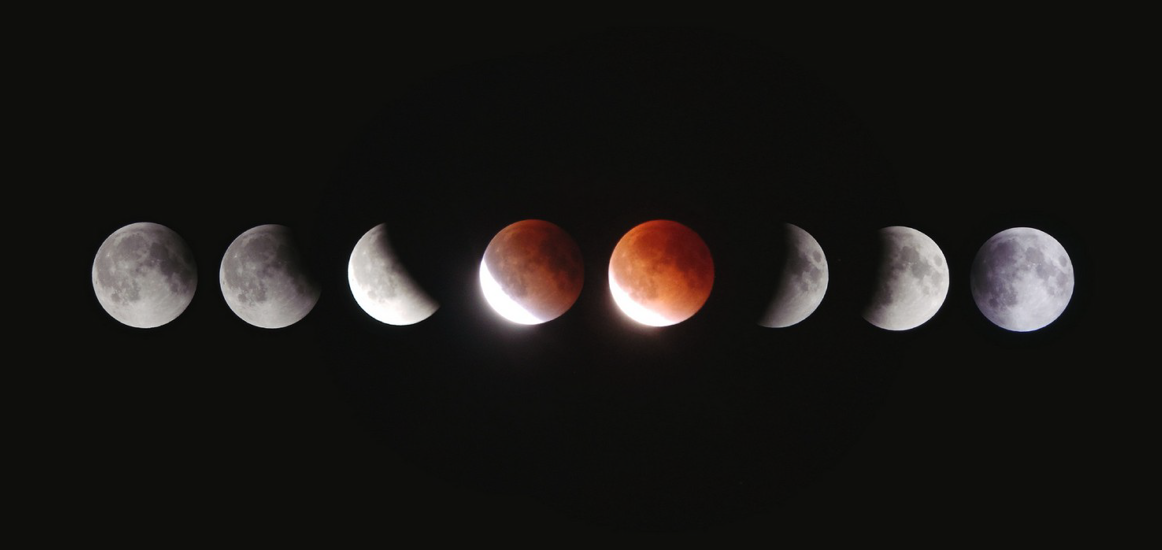
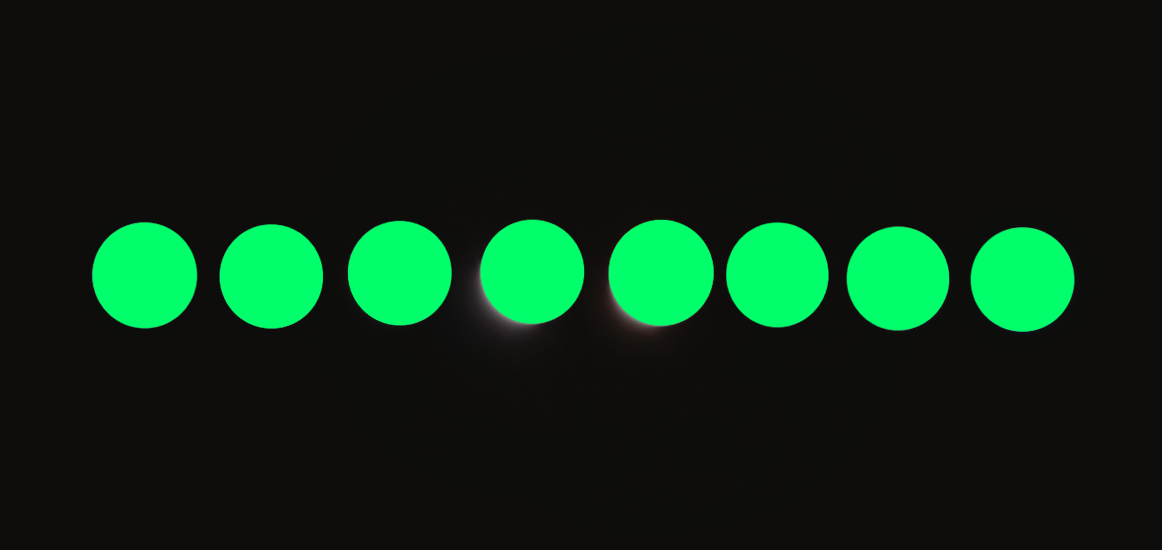
added all images to exhibitions page

Changed region(s): [[0.062, 0.4018, 0.9294, 0.6182]]

diff --git a/css/events-exhibitions-images.css b/css/events-exhibitions-images.css
@@ -30,6 +30,123 @@
 }
 
 .cosmologyImg1 {
+  display: block;
+  z-index: -1;
+  position: absolute;
+  width: 105px;
+  top: 327px;
+  right: 88px;
+  filter: drop-shadow(20px 20px 20px rgba(0, 0, 0, 0.5));
+}
+
+.cosmologyImg1:hover {
+  width: 120px;
+  transition: 1s;
+}
+
+.cosmologyImg2 {
+  display: block;
+  z-index: -1;
+  position: absolute;
+  width: 105px;
+  top: 325px;
+  right: 212px;
+  filter: drop-shadow(20px 20px 20px rgba(0, 0, 0, 0.5));
+}
+
+.cosmologyImg2:hover {
+  width: 120px;
+  transition: 1s;
+}
+
+.cosmologyImg3 {
+  display: block;
+  z-index: -1;
+  position: absolute;
+  width: 105px;
+  top: 321px;
+  right: 333px;
+  filter: drop-shadow(20px 20px 20px rgba(0, 0, 0, 0.5));
+}
+
+.cosmologyImg3:hover {
+  width: 120px;
+  transition: 1s;
+}
+
+.cosmologyImg4 {
+  display: block;
+  z-index: -1;
+  position: absolute;
+  width: 105px;
+  top: 320px;
+  right: 448px;
+  filter: drop-shadow(20px 20px 20px rgba(0, 0, 0, 0.5));
+}
+
+.cosmologyImg4:hover {
+  width: 120px;
+  transition: 1s;
+}
+
+.cosmologyImg5 {
+  display: block;
+  z-index: -1;
+  position: absolute;
+  width: 105px;
+  top: 318px;
+  right: 577px;
+  filter: drop-shadow(20px 20px 20px rgba(0, 0, 0, 0.5));
+}
+
+.cosmologyImg5:hover {
+  width: 120px;
+  transition: 1s;
+}
+
+.cosmologyImg6 {
+  display: block;
+  z-index: -1;
+  position: absolute;
+  width: 105px;
+  top: 319px;
+  right: 710px;
+  filter: drop-shadow(20px 20px 20px rgba(0, 0, 0, 0.5));
+}
+
+.cosmologyImg6:hover {
+  width: 120px;
+  transition: 1s;
+}
+
+.cosmologyImg7 {
+  display: block;
+  z-index: -1;
+  position: absolute;
+  width: 105px;
+  top: 323px;
+  right: 838px;
+  filter: drop-shadow(20px 20px 20px rgba(0, 0, 0, 0.5));
+}
+
+.cosmologyImg7:hover {
+  width: 120px;
+  transition: 1s;
+}
+
+.cosmologyImg8 {
+  display: block;
+  z-index: -1;
+  position: absolute;
+  width: 105px;
+  top: 322px;
+  right: 964px;
+  filter: drop-shadow(20px 20px 20px rgba(0, 0, 0, 0.5));
+}
+
+.cosmologyImg8:hover {
+  width: 120px;
+  transition: 1s;
 }
 
 .evolutionImg {
@@ -39,7 +156,7 @@
   left: 35%;
   top: 120px;
   width: 980px;
-  filter: drop-shadow(20px 20px 20px rgba(0, 0, 0, 0.5));
+  filter: drop-shadow(10px 10px 20px rgba(0, 0, 0, 0.5));
 }
 
 .evolutionImg:hover {
@@ -54,7 +171,7 @@
   left: 50%;
   top: 120px;
   width: 370px;
-  filter: drop-shadow(20px 20px 20px rgba(0, 0, 0, 0.5));
+  filter: drop-shadow(10px 10px 20px rgba(0, 0, 0, 0.5));
 }
 
 .biologyImg:hover {
@@ -65,15 +182,15 @@
 .roboticsImg {
   display: block;
   z-index: -1;
-  bottom: 0px;
+  bottom: -0px;
   left: 35%;
   position: absolute;
-  width: 800px;
-  filter: drop-shadow(20px 20px 20px rgba(0, 0, 0, 0.5));
+  width: 600px;
+  filter: drop-shadow(10px 10px 20px rgba(0, 0, 0, 0.5));
 }
 
 .roboticsImg:hover {
-  width: 815px;
+  width: 615px;
   transition: 1s;
 }
 
@@ -84,7 +201,7 @@
   right: 0px;
   top: 100px;
   width: 1162px;
-  filter: drop-shadow(20px 20px 20px rgba(0, 0, 0, 0.5));
+  filter: drop-shadow(10px 10px 20px rgba(0, 0, 0, 0.5));
 }
 
 .ecologyImg:hover {

diff --git a/events.html b/events.html
@@ -43,7 +43,6 @@
         <div class="evexSliderWrapper">
           <div class="evexSlider">
             <div id="aeronautics" class="evexs">
-              <img src="images/aeornautics.png" class="evexImg" />
               <section>
                 <h2>Visiting Professor of Aeronautics</h2>
                 <p>
@@ -55,8 +54,6 @@
               </section>
             </div>
             <div id="night" class="evexs">
-              <img src="images/night.png" class="evexImg" />
-              <img src="images/night2.png" class="nightImg" />
               <section>
                 <h2>Night in the Museum</h2>
                 <p>
@@ -68,8 +65,6 @@
               </section>
             </div>
             <div id="energetica" class="evexs">
-              <img src="images/energetica.png" class="evexImg" />
-              <img src="images/biology2.png" class="biologyImg" />
               <section>
                 <h2>Energetica Exhibition on Loan</h2>
                 <p>

diff --git a/exhibitions.html b/exhibitions.html
@@ -61,7 +61,15 @@
                   the planets in our solar system.
                 </p>
               </section>
-              <img src="images/exhibition-1.png" class="evexImg" />
+              <img src="images/cosmology.png" class="evexImg" />
+              <img src="images/cosmology1.png" class="cosmologyImg1" />
+              <img src="images/cosmology2.png" class="cosmologyImg2" />
+              <img src="images/cosmology3.png" class="cosmologyImg3" />
+              <img src="images/cosmology4.png" class="cosmologyImg4" />
+              <img src="images/cosmology5.png" class="cosmologyImg5" />
+              <img src="images/cosmology6.png" class="cosmologyImg6" />
+              <img src="images/cosmology7.png" class="cosmologyImg7" />
+              <img src="images/cosmology8.png" class="cosmologyImg8" />
             </div>
             <div id="evolution" class="evexs">
               <section>

diff --git a/css/layout.css b/css/layout.css
@@ -19,17 +19,13 @@ main {
   display: flex;
   flex-direction: row;
   flex-wrap: wrap;
-  gap: 40px;
   height: min-content;
+  gap: 40px;
   margin-bottom: 40px;
 
   div {
     flex-wrap: wrap;
     flex: 1;
-
-    p {
-      margin-bottom: -5px;
-    }
   }
 }
 
@@ -37,6 +33,10 @@ main {
   display: flex;
   flex-direction: column;
   gap: 40px;
+
+  ul {
+    margin-bottom: 20px;
+  }
 }
 
 @media only screen and (max-width: 1200px) {

diff --git a/css/index.css b/css/index.css
@@ -35,7 +35,8 @@
     width: 350px;
     padding: 40px;
     margin-bottom: 60px;
-    background-color: #0d361e;
+    background-image: url(../images/logo_gif2.gif);
+    background-size: cover;
 
     h2 {
       color: white;
@@ -72,8 +73,10 @@
 .indexImg {
   display: flex;
   justify-content: center;
+  align-content: end;
   overflow: hidden;
   contain: size;
+  padding-bottom: 20px;
 
   img {
     flex-shrink: 0;

diff --git a/css/events-exhibitions.css b/css/events-exhibitions.css
@@ -31,7 +31,7 @@
     height: 470px;
     padding: 40px;
     margin-top: 100px;
-    background-color: #0d361e;
+    background-image: url(../images/logo_gif2.gif);
     background-size: cover;
 
     h2 {
@@ -50,7 +50,7 @@
   z-index: 2;
   display: flex;
   position: absolute;
-  justify-content: space-between;
+  gap: 40px;
   width: 100%;
   height: min-content;
   background-color: var(--background-color);

diff --git a/get-involved.html b/get-involved.html
@@ -4,7 +4,7 @@
     <meta charset="UTF-8" />
     <meta name="viewport" content="width=device-width, initial-scale=1.0" />
     <meta name="description" content="" />
-    <title>Exhibitions | Ullensaker Science Museum</title>
+    <title>Get Involved | Ullensaker Science Museum</title>
     <link rel="stylesheet" href="css/styles.css" />
     <link
       rel="icon"

diff --git a/index.html b/index.html
@@ -4,7 +4,7 @@
     <meta charset="UTF-8" />
     <meta name="viewport" content="width=device-width, initial-scale=1.0" />
     <meta name="description" content="" />
-    <title>wuwuwuw | Ullensaker Science Museum</title>
+    <title>Home | Ullensaker Science Museum</title>
     <link rel="stylesheet" href="css/styles.css" />
     <link
       rel="icon"

diff --git a/visit.html b/visit.html
@@ -4,7 +4,7 @@
     <meta charset="UTF-8" />
     <meta name="viewport" content="width=device-width, initial-scale=1.0" />
     <meta name="description" content="" />
-    <title>Events | Ullensaker Science Museum</title>
+    <title>Visit | Ullensaker Science Museum</title>
     <link rel="stylesheet" href="css/styles.css" />
     <link
       rel="icon"

diff --git a/css/header.css b/css/header.css
@@ -29,7 +29,7 @@ header {
 
 #logo {
   width: 150px;
-  background-color: var(--heading-color);
+  background-image: url(../images/logo_gif3.gif);
   background-size: 150px;
   margin: 0;
   padding: 0;

diff --git a/css/footer.css b/css/footer.css
@@ -1,5 +1,5 @@
 footer {
-  background-color: #0d361e;
+  background-image: url(../images/logo_gif2.gif);
   background-size: cover;
   color: white;
   padding-top: 40px;

diff --git a/css/variables.css b/css/variables.css
@@ -1,4 +1,4 @@
 :root {
   --background-color: #f1f3ec;
-  --heading-color: #177d43;
+  --heading-color: #137740;
 }
